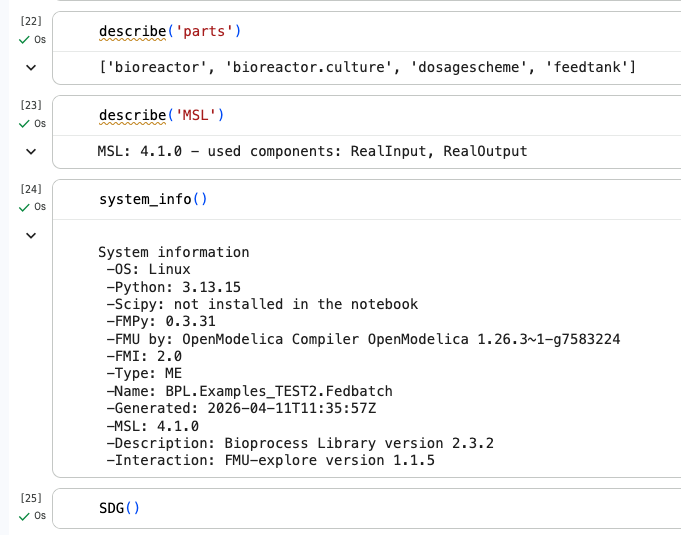
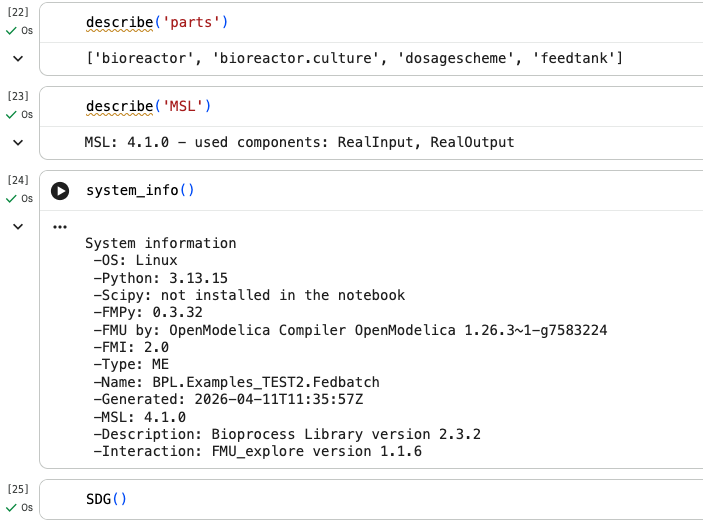
Run in Colab with FMPy 0.3.32 - brand new!

diff --git a/BPL_TEST2_Fedbatch.py b/BPL_TEST2_Fedbatch.py
@@ -2,6 +2,7 @@
 # Author: Jan Peter Axelsson
 #------------------------------------------------------------------------------------------------------------------
 # 2026-08-21 - Created
+# 2026-09-09 - Drop global prevFinalTime and let it be just interal to fmu_explore_pyfmi
 #------------------------------------------------------------------------------------------------------------------
 
 #------------------------------------------------------------------------------------------------------------------
@@ -77,7 +78,6 @@ else:
 
 # Simulation time
 simulationTime = 5.0
-prevFinalTime = 0
 
 # Dictionary of time discrete states
 timeDiscreteStates = {} 

diff --git a/BPL_TEST2_Fedbatch_fmpy.py b/BPL_TEST2_Fedbatch_fmpy.py
@@ -2,6 +2,7 @@
 # Author: Jan Peter Axelsson
 #------------------------------------------------------------------------------------------------------------------
 # 2026-09-07 - Created
+# 2026-09-09 - Drop global prevFinalTime and let it be just interal to fmu_explore_fmpy
 #------------------------------------------------------------------------------------------------------------------
 
 #------------------------------------------------------------------------------------------------------------------
@@ -67,7 +68,6 @@ else:
 
 # Simulation time
 simulationTime = 5.0
-prevFinalTime = 0
 
 # Dictionary of time discrete states
 timeDiscreteStates = {} 
